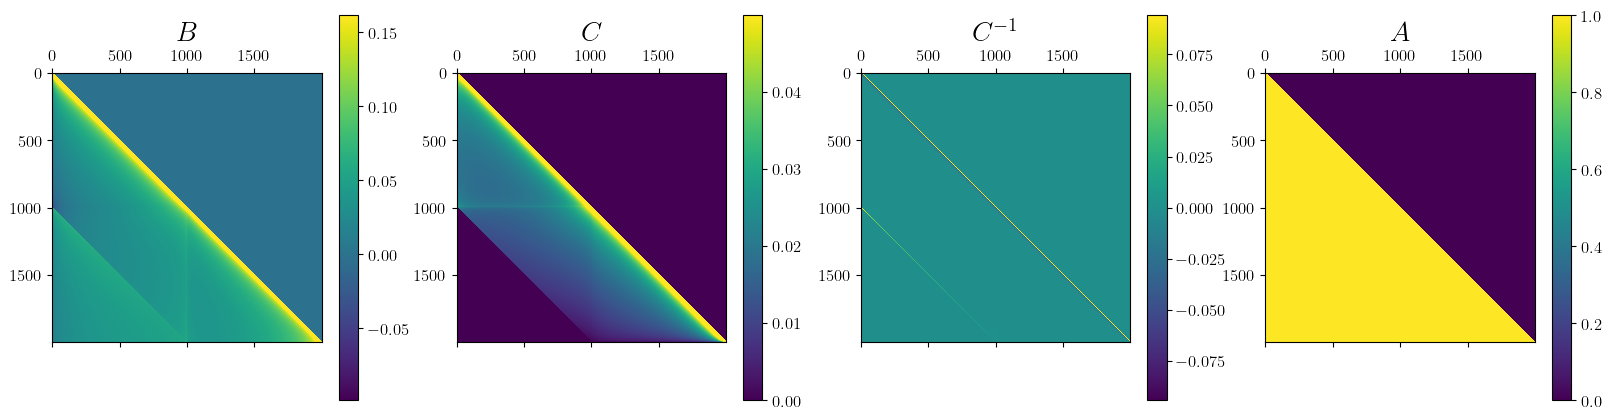
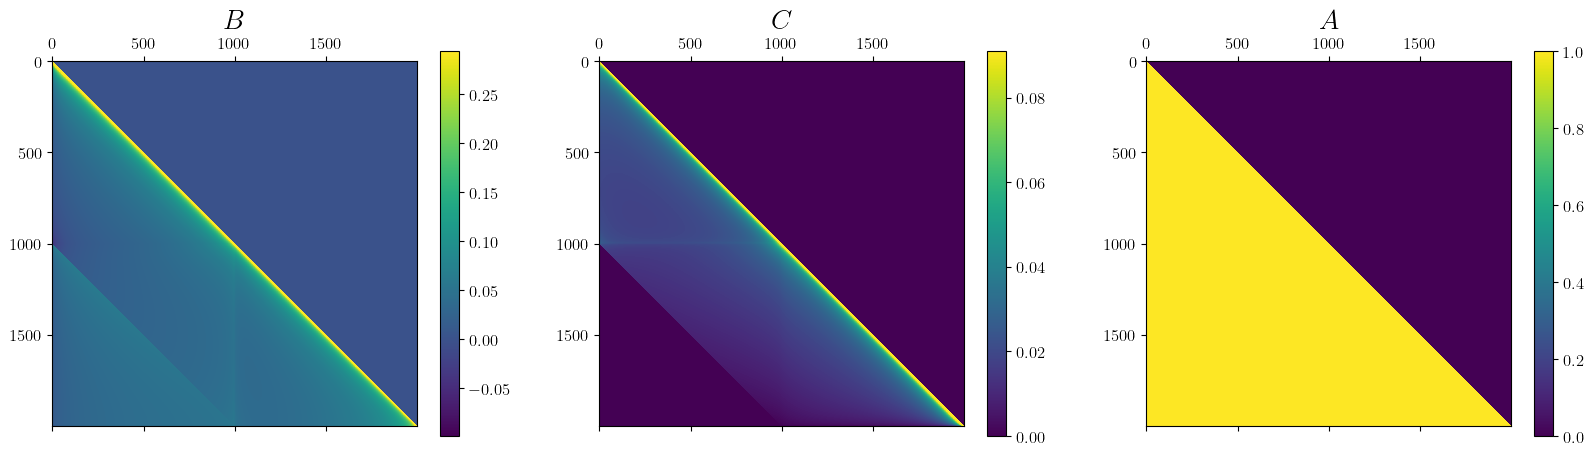
edits

diff --git a/_posts/2025-04-28-building-blocks-of-differentially-private-training.md b/_posts/2025-04-28-building-blocks-of-differentially-private-training.md
@@ -97,11 +97,11 @@ Going back to our goal and our list of requirements, we have $$M$$ being the lea
 - The "any set of outputs $$S$$" requirement protects against attackers with arbitrary auxiliary information, since they can check any property of the output<d-footnote> For more detailed discussion on auxiliary information check section 2 of <d-cite key=dwork2014algorithmic></d-cite>.</d-footnote>
 - The probabilistic guarantee holds regardless of computational power. Arbitrary computations can be used to construct the set $$S$$ and the dataset $$D'$$ which differs by a single record from a protected dataset
 
-For some more clarity, let's forget about $$\delta$$ for a moment setting it to $$0$$. Then, for any $$D$$ and $$D'$$ differing by a datapoint, we have that the above guarantee is equivalent to:
+For some more clarity, let's forget about $$\delta$$ for a moment by setting it to $$0$$. This special case is usually called pure DP. Then, for any $$D$$ and $$D'$$ differing by a datapoint, we have that the above guarantee is equivalent to:
 
 $$\begin{equation}  \ln\left(\frac{ P(M(D) \in S)}{ P(M(D') \in S)}\right) \leq \varepsilon, \;\;\;  \forall S\subseteq \text{range}(M) .\end{equation}$$
 
-For a small $$\varepsilon$$, an observer looking at the output of $M$ is not able to reason if a specific datapoint was in the input of $$M$$, as the change of a single datapoint does not alter the probability distribution of the output significantly. Now let's consider $$\delta >0$$. This regime may be interpreted as instead of requiring the above ratio in (1) to always hold to only require it to hold with high probability.
+For a small $$\varepsilon$$, an observer looking at the output of $M$ is unable to infer if a specific datapoint was in the input of $$M$$, as the change of a single datapoint does not alter the probability distribution of the output significantly. Now let's consider $$\delta >0$$. This regime may be interpreted as instead of requiring the above ratio in (1) to always hold to only require it to hold with high probability.
 
 > **Key Result 1** (Appendix A. <d-cite key=kasiviswanathan2014semantics></d-cite>) If a mechanism $$M$$ is $$(\varepsilon/2, \delta)$$-DP, then for any neighbouring datasets $$D$$, $$D'$$ we have:
 >$$\begin{equation}
@@ -119,11 +119,12 @@ As shown by **Key Result 1**, the privacy loss variable enables us to interpret 
 
 > **Key Result 2** (Lemma 3.17 <d-cite key=dwork2014algorithmic></d-cite>) If for all neighbouring datasets $$D,D'$$, a mechanism $$M$$ satisfies $$P(L(M,D,D') > \varepsilon) \leq \delta$$, then $$M$$ is $$(\varepsilon,\delta)$$-DP.
 
-In other words, if we can show that the privacy loss is bounded by $$\varepsilon$$ with high probability (≥ 1-$$\delta$$), then the mechanism satisfies $$(\varepsilon,\delta)$$-DP<d-footnote> Note that the other direction does not strictly hold as the reverse statement in Key Result 1 is weaker.</d-footnote>. In addition, the above two results also provide insights on the appropriate values of $$\delta$$ and $$\varepsilon$$. Generally, $$\varepsilon$$ indicates the strength of the guarantee and $$\delta$$ signifies the probability of the privacy catastrophically breaking. Thus, we often require $$\delta$$ to be very small. Ideally, $\varepsilon$ should be around or smaller than $1$ so that the ratio between the two probability of outcomes under two datasets differing by a record stays small. However, in practice, $$\varepsilon=1$$ is relatively hard to obtain.
+In other words, if we can show that the privacy loss is bounded by $$\varepsilon$$ with high probability (≥ 1-$$\delta$$), then the mechanism satisfies $$(\varepsilon,\delta)$$-DP<d-footnote> Note that the other direction does not strictly hold as the reverse statement in Key Result 1 is weaker.</d-footnote>. In addition, the above two results also guide the choice of appropriate values for $$\delta$$ and $$\varepsilon$$. Generally, $$\varepsilon$$ quantifies the strength of the privacy guarantee, while $$\delta$$ captures the probability of a catastrophic privacy failure. Thus, we typically require $$\delta$$ to be very small—often smaller than $$1/n$$, where $$n$$ is the dataset size—to avoid leaking individual records. A common strong target is $$\varepsilon \leq 1$$, ensuring the outcome probabilities under neighboring datasets remain close. However, achieving $$\varepsilon=1$$ or smaller can be challenging in practice, and sometimes a larger $$\varepsilon$$ may still be preferable over having no DP guarantees at all, though this is a more debatable stance. Indeed, as $$\varepsilon$$ grows to double digits, the DP gurarantee becomes extremely weak.
+
 
 ### A Practical Example: Private Mean Estimation
 
-We defined DP but how does it works in practice? Consider computing the average of sensitive data. Suppose we want to compute the average salary of a group of people while protecting individual's privacy. Simply releasing the exact average could leak information about individuals, especially in small datasets and considering the power that we already given to the observer of having access to all but one record of the dataset. The solution is rather simple; adding Gaussian noise. 
+We defined DP but how does it works in practice? Consider computing the average of sensitive data. Suppose we want to compute the average salary of a group of people while protecting individual's privacy. Simply releasing the exact average could leak information about individuals, especially in small datasets and considering the power that we already given to the observer of having access to all but one record of the dataset. One possible solution is rather simple; adding Gaussian noise. 
 
 Let's assume that we have $$n$$ clients in the dataset and that all salaries are bounded by $$B$$ and we want $$(\varepsilon, \delta)$$-DP mean computation. We can
 
@@ -164,7 +165,7 @@ Then, for a function $$f$$ and a required $$(\varepsilon,\delta)$$-DP level, bas
 $$M(x) = f(x) + \mathcal{N}(0, \sigma^2I).$$
 
 For a simple version of the Gaussian mechanism, we may set $$\sigma = \frac{\Delta}{\varepsilon}\sqrt{2\ln(1/\delta)+2\varepsilon}$$ <d-footnote>For $\varepsilon<1$, the folklore result is more refined and states that we can set $\sigma = \frac{\Delta}{\varepsilon}\sqrt{2\ln(1.25/\delta)}$ <d-cite key=dwork2014algorithmic></d-cite>. The version we have here follows from the same derivation as the folklore result but using a couple of brute bounds to avoid the need for $\varepsilon
-\leq 1$</d-footnote> to ensure $$(\varepsilon,\delta)$$-DP. While we wont prove this bound, its derivation depends on analysing the privacy loss random variable. The critical step is to show that when a Gaussian noise with covariance $$\sigma^2 I$$ is added, the privacy loss random variable satisfies
+\leq 1$</d-footnote> to ensure $$(\varepsilon,\delta)$$-DP. While we won't prove this bound, its derivation depends on analysing the privacy loss random variable. The critical step is to show that when a Gaussian noise with covariance $$\sigma^2 I$$ is added, the privacy loss random variable satisfies
 
 $$
 \begin{equation}
@@ -200,7 +201,7 @@ Taking another look at our example of computing the mean salary, we find out tha
 
 > 📝 **The key takeaway message here** and the reason we went into the details of the Gaussian mechanism is not to show what's the best way to implement the Gaussian mechanism. **It is to illustrate that in DP:**
 >1. We really care about tighter bounds as: **tighter bounds** ->  **less noise** -> **more useful results with same privacy**
->2. In cases where it is possible to leverage numerical solvers to get tighter bounds, we are happy to do so. 
+>2. In cases where it is possible to leverage **numerical solvers to get tighter bounds**, we are happy to do so. 
 
 The above two points are very important in both DP practice and research. While closed form bounds and asymptotics are useful in gaining intuition or proving the (non)optimality of some methods, most state of the art DP implementations are attained using numerical solvers and numerous tricks to calibrate as tightly as possible the noise magnitude and compute the privacy guarantee.
 
@@ -253,7 +254,7 @@ and so on.
   Illustration of the composition of multiple mechanisms. Each mechanism access the data and all the outputs of the previous mechanisms.
 </div>
 
-Let's interpret how gradient descent with many steps fits within the adaptive composition framework. We set the $i$-th step of gradient descent as $$M_i$$, taking the output of the previous gradient steps and accessing the data to compute the new parameters $$\theta_{i}$$. Then, $$M_{[k]}$$ is the mechanism that releases all the model checkpoints $$\theta_1,\ldots, \theta_k$$ <d-footnote>for the setting where only the final outcome is released check <d-cite key=feldman2018privacy></d-cite>.</d-footnote>. Therefore, requiring a privacy guarantee on the adaptive composition of gradient steps is to protect against adversaries seeing the entire parameter trajectory, not just the final model. This strong guarantee is often desirable since:
+Let's interpret how gradient descent with many steps fits within the adaptive composition framework. We set the $i$-th step of gradient descent as $$M_i$$, taking the output of the previous gradient steps and accessing the data to compute the new parameters $$\theta_{i}$$. Then, $$M_{[k]}$$ is the mechanism that releases all the model checkpoints $$\theta_1,\ldots, \theta_k$$ <d-footnote>Another setting, which we do not investigate, is one where only the final outcome is released and other intermediary steps are hidden. For a reference, check <d-cite key=feldman2018privacy></d-cite>.</d-footnote>. Therefore, requiring a privacy guarantee on the adaptive composition of gradient steps is to protect against adversaries seeing the entire parameter trajectory, not just the final model. This strong guarantee is often desirable since:
 - Training checkpoints are commonly saved for monitoring convergence, early stopping, ensembling
 - Models may be fine-tuned from intermediate checkpoints
 - In federated learning, updates are explicitly shared with all participating agents<d-footnote>Note that the notion of DP used in federated learning is usually slightly different than the one we are using. The guarantee is usually not with respect $D$ and $D'$ differing by one datapoint, but instead $D$ and $D'$ differ by all the datapoints belonging to a single user. This is well explained in <d-cite key=ponomareva2023dpfy></d-cite>  </d-footnote>.
@@ -267,9 +268,9 @@ Finally, going back to our goal of calculating $$(\varepsilon_{\text{tot}}, \del
 
 After introducing the advanced composition theorem, we technically have all the ingredients for a first trial to train a small two layer neural network on a simple dataset. For our model we will use a simple two-layer neural network with ReLU activation and $$128$$ hidden units. For the data, we will use $$5000$$ randomly sampled images from MNIST. To train our model with DP, we first need to set the hyperparameters $$C$$ (clipping norm) and $$T$$ (number of iteration). Then, after picking the privacy guarantee we want by setting $$\varepsilon$$ and $$\delta$$, we can use the Gaussian mechanism along with advanced composition result to calculate the magnitude of Gaussian noise required at each iteration. 
 
-In fact, we may make use of a handy result from <d-cite key=kairouz2015composition></d-cite>, which states that to get $(\varepsilon,\delta)$ it is sufficient to have each inner Gaussian mechanism satisfy $(\varepsilon_0, \delta_0)$ with $\varepsilon_0 = \frac{\varepsilon}{2\sqrt{T\log(e + \varepsilon/\delta)}}$ and $\delta_0 = \frac{\delta}{2T}$. We can then use $\varepsilon_0$ and $\delta_0$ to calculate the amount of noise we need to have. However, we are left with two hyperparameters to tune $C$ and $T$. For the gradient clipping $C$, one common heuristic is to tune it is to run the training without any DP, measure the distribution of the gradient norms, and pick $C$ so that we are doing some clipping but not a lot of clipping<d-footnote>This is a bit vague. It is hard to be very specific about hyperparameters tuning intuitions.</d-footnote> <d-footnote>On a side note, in the wider machine learning community, gradient clipping is being used to stabilize training. The critical difference is that we are computing the average of clipped gradients, while the (wider used) gradient clipping is often a clipping of the average gradients.</d-footnote>. $T$ can also be tricky to tune. For a larger $T$, we are able to train longer but we need to use smaller $\varepsilon_0$ and $\delta_0$ forcing us to add more noise at each iteration.
+In fact, we may make use of a handy result from <d-cite key=kairouz2015composition></d-cite>, which states that to get $(\varepsilon,\delta)$ it is sufficient to have each inner Gaussian mechanism satisfy $(\varepsilon_0, \delta_0)$ with $\varepsilon_0 = \frac{\varepsilon}{2\sqrt{T\log(e + \varepsilon/\delta)}}$ and $\delta_0 = \frac{\delta}{2T}$. We can then use $\varepsilon_0$ and $\delta_0$ to calculate the amount of noise we need to have. However, we are left with two hyperparameters to tune $C$ and $T$. For the gradient clipping $C$, one common heuristic is to tune it is to run the training without any DP, measure the distribution of the gradient norms, and pick $C$ so that we are doing some clipping but not a lot of clipping<d-footnote>This is a bit vague. It is hard to be very specific about hyperparameters tuning intuitions.</d-footnote> <d-footnote>On a side note, in the wider machine learning community, gradient clipping is being used to stabilize training. The critical difference is that we are computing the average of clipped gradients, while the (wider used) gradient clipping is often a clipping of the average gradients.</d-footnote><d-footnote>Tuning hyperparameters using non-DP runs could leak information. We skip this detail here but proper DP training requires accounting for hyperparameter tuning within the privacy budget, see <d-cite key=papernot2022hyperparameter></d-cite></d-footnote>. $T$ can also be tricky to tune. For a larger $T$, we are able to train longer but we need to use smaller $\varepsilon_0$ and $\delta_0$ forcing us to add more noise at each iteration.
 
-To get some intuition of the tuning of $C$ and $T$, let's try a training run without any DP to see the gradients norms and the loss curves. We run gradient descent with learning $0.01$ for $5000$ iterations. For the gradients norm, the $95\%$ quantile is around $32$ and very low number of gradient go above $40$. For the sake of round numbers, let's take $C=30$ <d-footnote>One may want to do better hyperparameter tunning in practice but this blog is for illustrations only</d-footnote>
+To get some intuition of the tuning of $C$ and $T$, let's try a training run without any DP to see the gradients norms and the loss curves. We run gradient descent with learning $0.01$ for $5000$ iterations. For the gradients norm, the $95\%$ quantile is around $32$ and very low number of gradient go above $40$. For the sake of round numbers, let's take $C=30$ <d-footnote>One may want to do better hyperparameter tunning in practice but this blog is for illustrations only. In some setting, more aggressive clipping can work better.</d-footnote>
 
 <div class="row mt-3">
     <div class="col-sm mt-3 mt-md-0">
@@ -370,7 +371,7 @@ This is more encouraging. We need a way smaller noise for the same exact privacy
 Well, we are actually able to train!
 ### The Power of Subsampling: From GD to SGD
 
-In practice, we rarely use full GD, preferring stochastic gradient descent (SGD) which operates on random minibatches. Beyond very small datasets on simple models, SGD is indispensable as trying to use the full dataset at each iteration makes the computations completely infeasible. In particular, SGD subsamples a random minibatch at the start of each training iteration. However, a critical issue with subsampling is the expanded sensitivity. To illustrate, let's reconsider our earlier example of computing the mean salary of $$n=10^4$$ employees. The sensitivity of this data query scales with $$\mathcal{O}(1/n)$$. Consider an alternative strategy to estimate the average the salary by first sampling the salary of $$250$$ employees and then computing the average using only the sampled salaries. In this sampling approach, the worst-case sensitivity for a datapoint may scale proportionally with $$1/250$$. This is due to the fact that we normalize by $$1/250$$ instead of $$1/n$$ in computing the empirical mean. As typically $$250\ll n$$, this forces us to add even more noise to maintain the same privacy guarantee. 
+In practice, we rarely use full GD, preferring stochastic gradient descent (SGD) which operates on random minibatches. Beyond very small datasets on simple models, SGD is indispensable as trying to use the full dataset at each iteration makes the computations too computationally expensive. In particular, SGD subsamples a random minibatch at the start of each training iteration. However, a critical issue with subsampling is the expanded sensitivity. To illustrate, let's reconsider our earlier example of computing the mean salary of $$n=10^4$$ employees. The sensitivity of this data query scales with $$\mathcal{O}(1/n)$$. Consider an alternative strategy to estimate the average the salary by first sampling the salary of $$250$$ employees and then computing the average using only the sampled salaries. In this sampling approach, the worst-case sensitivity for a datapoint may scale proportionally with $$1/250$$. This is due to the fact that we normalize by $$1/250$$ instead of $$1/n$$ in computing the empirical mean. As typically $$250\ll n$$, this forces us to add even more noise to maintain the same privacy guarantee. 
 
 Nonetheless, implementing a differentially private SGD is still possible. Subsampling itself, under some conditions, can be shown to provide privacy benefits through **privacy amplification by subsampling**. Hence, the stochasticity of SGD makes each step more private, essentially allowing us to train with less noise. As a result, the tradeoff of increased sensitivity along with subsampling privacy amplification typically cancels out enabling us to use SGD<d-footnote>  This tradeoff between amplification by subsampling and increased sensitivity was recently studied in <d-cite key=2024subsampling></d-cite>.</d-footnote>, with almost the same amount of noise per iteration, independantly of the batch size. In practice, SGD is implemented by using a random batch with fixed batch-size at each iteration. For the following section, we will assume a different sampling strategy, which we will refer to as Poisson subsampling. We assume that given a dataset, at each step of SGD, each datapoint is independently at random selected for training with probability $$q$$. 
 
@@ -380,7 +381,7 @@ For the Gaussian mechanism specifically, when we combine:
 
 We get the following RDP guarantee:
 
-**Theorem (Informal)**<d-cite key=mironov2019r></d-cite>: For $$\alpha > 1$$, the subsampled Gaussian can satisfy $$(\alpha,\frac{q^2\alpha}{\sigma^2})$$-RDP <d-footnote>This statement is only proved under certain conditions on $\sigma$ and $\alpha$. Again, in practice, we will be using a numerical method to get a tight characterization.</d-footnote>.
+**Theorem (Informal)**<d-cite key=mironov2019r></d-cite>: For $$\alpha > 1$$, the subsampled Gaussian satisfies $$(\alpha,\frac{q^2\alpha}{\sigma^2})$$-RDP <d-footnote>This statement is only proved under certain conditions on $\sigma$ and $\alpha$. Again, in practice, we will be using a numerical method to get a tight characterization.</d-footnote>.
 
 This $$O(q^2)$$ factor is crucial as $$q$$ is usually quite small in practice. Combined with RDP composition, this enables us to use much smaller noise for the same privacy guarantee. 
 
@@ -389,7 +390,7 @@ Those building blocks allow us to finally recover the DP-SGD algorithm<d-cite ke
 2. Clip the gradient for each example.
 3. Average and add $$\mathcal{N}(0,\sigma^2 I)$$ noise
 4. Update parameters
-5. Track privacy via RDP composition<d-footnote>Technically the original DP-SGD was not introduced with the framework of RDP but with the moment accountant. Motivated by the structure of Gaussian noise, the authors proposed an algorithm to track the composition of Gaussian mechanisms through the moments of the privacy loss random variable. Later, RDP was introduced in <d-cite key=mironov2019r></d-cite>, which in some sense generalized the approach of tracking composition through the moment behavior of the privacy loss random variable. For a nice discussion on this and a substantially more rigorous results on the amplification by subsampling of RDP, check <d-cite key=Wang_Balle_Kasiviswanathan_2021></d-cite>.</d-footnote>
+5. Track privacy via RDP composition<d-footnote>Technically the original DP-SGD was not introduced with the framework of RDP but with the moment accountant. Motivated by the structure of Gaussian noise, the authors proposed an algorithm to track the composition of Gaussian mechanisms through the moments of the privacy loss random variable. Later, RDP was introduced in <d-cite key=mironov2019r></d-cite>, which in some sense generalized the approach of tracking composition through the moment behavior of the privacy loss random variable. For a nice discussion on this and a substantially more rigorous results on the amplification by subsampling of RDP, check <d-cite key=Wang_Balle_Kasiviswanathan_2021></d-cite>. In an earlier work, Song et al. introduced a simpler version of DP-SGD <d-cite key=song2013stochastic></d-cite></d-footnote>
 
 #### A third try at DP training. 
 
@@ -494,7 +495,7 @@ This is acutally what we want as the noise: the matrix $$C^{-1}Z$$ is made from 
 
 $$\widehat{AH} = A(H+C^{-1}Z) =  AH+AZ.$$
 
-This is essentially how DP-SGD works. Remember, that for our application, the $$i$$-th row of $$H$$ is the $$i$$-th gradient vector. In addition,  each row of $$Z$$ is an independent realization from $$\mathcal{N}(0,\sigma^2 I)$$. If we want to add correlated noise, we need to have $$C^{-1}\neq I$$. Now, the question is finding a factorization $$A=BC$$ such that 
+This is how DP-SGD works. Remember, that for our application, the $$i$$-th row of $$H$$ is the $$i$$-th gradient vector. In addition,  each row of $$Z$$ is an independent realization from $$\mathcal{N}(0,\sigma^2 I)$$. If we want to add correlated noise, we need to have $$C^{-1}\neq I$$. Now, the question is finding a factorization $$A=BC$$ such that 
 
 1. $$C$$ is invertible
 2. $$C^{-1}$$ has a noise correlation structure that makes as much as possible of the total noise cancel out, in order words, optimizes the utility result. 
@@ -503,7 +504,7 @@ This is essentially how DP-SGD works. Remember, that for our application, the $$
 In other words, various choices of $$(C, \sigma)$$ can be made to ensure $$(\varepsilon,\delta)$$-DP, and some result in a better utility than the one choice $$C=I$$.
 
 Finding $$B$$ and $$C$$ to achieve the above goals is non-trivial. Again, we strongly rely on numerical solvers to find the best $$B$$ and $$C$$ and correspondingly calculate the required $$\sigma$$ for $$(\varepsilon, \delta)$$-DP. For details, refer to <d-cite key=choquette2023multiMF></d-cite> and <d-cite key=choquette2024amplifiedMF></d-cite>. Crucially, the computations for the decomposition of $$B$$ and $$C$$ is typically independant of the gradient matrix $$H$$. Some consideration on using the approaches of <d-cite key=choquette2023multiMF></d-cite> and <d-cite key=choquette2024amplifiedMF></d-cite> are:
-- Be careful how you sample: we used Poisson sampling for DP-SGD, i.e., at each iteration, each datapoint is randomly selected with some fixed probability. We need to be careful how we sample datapoints with the matrix factorization setting. You cannot just plug the Poisson subsampling. In particular, when computing $$(\varepsilon, \delta)$$ guarantees, we must account  for the maximum number of times any datapoint is used in gradient computations and a sampling structure where a datapoint cannot participate in gradient computations less than $$b$$ steps apart. Violating either will invalidate the privacy analysis.
+- Be careful how you sample: we used Poisson sampling for DP-SGD, i.e., at each iteration, each datapoint is randomly selected with some fixed probability. We need to be careful how we sample datapoints with the matrix factorization setting. You cannot just plug the Poisson subsampling. In particular, when computing $$(\varepsilon, \delta)$$ guarantees, we must account  for the maximum number of times any datapoint is used in gradient computations and a sampling structure where a datapoint cannot participate in gradient computations less than prespecified fixed number of steps apart. Violating either will invalidate the privacy analysis.
 - Subsampling amplification: one advantage of matrix factorization is that it is competitive with DP-SGD even without fully relying on any privacy amplification through subsampling<d-cite key=choquette2023multiMF></d-cite>. A privacy amplification through subsampling for the matrix factorization was introduced in  <d-cite key=choquette2024amplifiedMF></d-cite>. With this amplification, in the settings tested in the paper, the matrix factorization mechanism was always Pareto optimal with repect to the privacy-accuracy tradeoff. Again, one should be careful with subsampling amplifications as they should be implemented in a way that does not violate the previous remark.
 
 
@@ -518,7 +519,7 @@ To illustrate a possible structure of the matrices $$B$$ and $$C$$. We use the m
     </div>
 </div>
 <div class="caption">
-Figure generated from the code of C.A. Choquette-Choo, et al. <d-cite key=choquette2024amplifiedMF></d-cite>
+Raw values for the matrices $A$, $B$ and $C$. Figure generated from the code and results of C.A. Choquette-Choo, et al. <d-cite key=choquette2024amplifiedMF></d-cite>
 </div>
 
 
@@ -533,7 +534,7 @@ While most elements are zero, we can observe a positive and a negative cluster. 
 
 $$\theta_i = \theta_0 - \eta A_{[i,:]}(H+C^{-1}Z),$$
 
-where $$A_{[i,:]}$$ is the $$i$$-th row of $$A$$. Thus, the total variance of the noise at iteration $$i$$ can be seen as scaling with $$(AC^{-1})_{[i,:]}$$. To illustrate the benefit of using a noise correlation matrix, i.e, $$C\neq I$$, we can plot $$(AC^{-1})_{[i,:]}$$ against $$A_{[i,:]}$$.
+where $$A_{[i,:]}$$ is the $$i$$-th row of $$A$$. Thus, the total variance of the noise at iteration $$i$$ can be seen as sacled with $$(AC^{-1})_{[i,:]}$$. To illustrate the benefit of using a noise correlation matrix, i.e, $$C\neq I$$, we can plot $$(AC^{-1})_{[i,:]}$$ against $$A_{[i,:]}$$.
 
 
 <div class="row mt-3">
@@ -547,7 +548,7 @@ We can see that $$A_{[i,:]}$$ increases at a much higher rate as none of the noi
 #### A fourth try at DP training
 
 
-Now let's go back to the running MNIST training setting, where we train a two-layer neural network on a $$5000$$ images of MNIST with $$(\varepsilon, \delta)$$-DP for $$\varepsilon=1$$ and $$\delta=1e-6$$. For the matrices $$B$$ and $$C$$ and the calibration of $$\sigma$$, we used the tools released by <d-cite key=choquette2024amplifiedMF></d-cite>. For reference, with $$T=200$$, $$C=30$$, and a batchsize of $$25$$, we obtained $$\sigma \approx 4$$. This is a much higher noise scale than what we used with DP-SGD. However, as a lot of the noise cancel out, we are still able to train effectively.
+Now let's go back to the running MNIST training setting, where we train a two-layer neural network on a $$5000$$ images of MNIST with $$(\varepsilon, \delta)$$-DP for $$\varepsilon=1$$ and $$\delta=1e-6$$. For the matrices $$B$$ and $$C$$ and the calibration of $$\sigma$$, we used the tools released by <d-cite key=choquette2024amplifiedMF></d-cite>. For reference, with $$T=200$$, $$C=30$$, and a batchsize of $$25$$, we obtained $$\sigma \approx 4$$. This is a much higher noise scale than what we used with DP-SGD. However, as the noise partially cancels out, we are still able to train effectively.
 
 
 <div class="row mt-3">
@@ -563,7 +564,7 @@ This is competitive with DP-SGD.
 In this blog post, we explored the building blocks of differentially private training through two main approaches:
 
 - DP-SGD, which adds independent Gaussian noise at each iteration, with privacy amplification through careful subsampling
-- Matrix factorization mechanisms, which enable carefully correlated noise across iterations through optimized encoder-decoder pairs 
+- Matrix factorization mechanisms, which enable carefully correlated noise across iterations through optimized encoder-decoder pairs.
 
 Both approaches offer viable paths to private deep learning, with different tradeoffs. While DP-SGD remains simpler to implement, matrix factorization mechanisms may achieve better privacy-utility tradeoffs in many settings. For practitioners looking to train neural networks with differential privacy, experimenting with both approaches may be valuable, as their relative performance can depend on factors like model architecture, dataset size, and privacy requirements. 
 
@@ -571,4 +572,4 @@ Finally, we added some of the code to generate the simulation in this [repo](htt
 
 **Acknowledgments**
 
-We are deeply grateful for the insightful feedback and suggestions that helped shape and improve this blog post. We extend our sincere thanks to the anonymous reviewers for their valuable comments. We would also like to express our appreciation to Paul Mangold, Edwidge Cyffers, Adrien Majka, Martin Van Waerebeke, and Daniel Berg Thomsen for their careful reading and constructive feedback during the preparation of this work.
+We are deeply grateful for the insightful feedback and suggestions that helped shape and improve this blog post. We extend our sincere thanks to the anonymous reviewers for their valuable comments. We would also like to express our appreciation to Paul Mangold, Edwidge Cyffers, Adrien Majka, Martin Van Waerebeke, Daniel Berg Thomsen, and Renaud Gaucher for their careful reading and constructive feedback during the preparation of this work.
